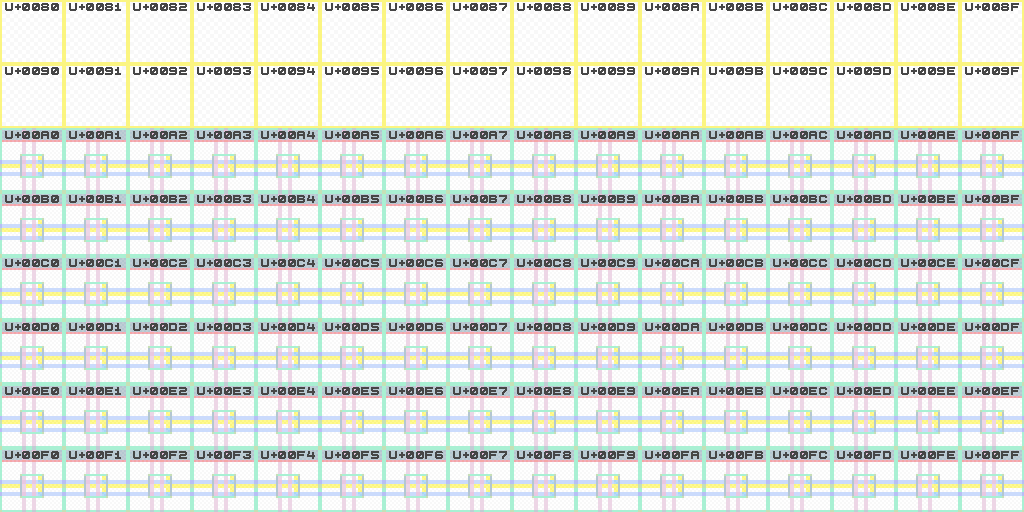
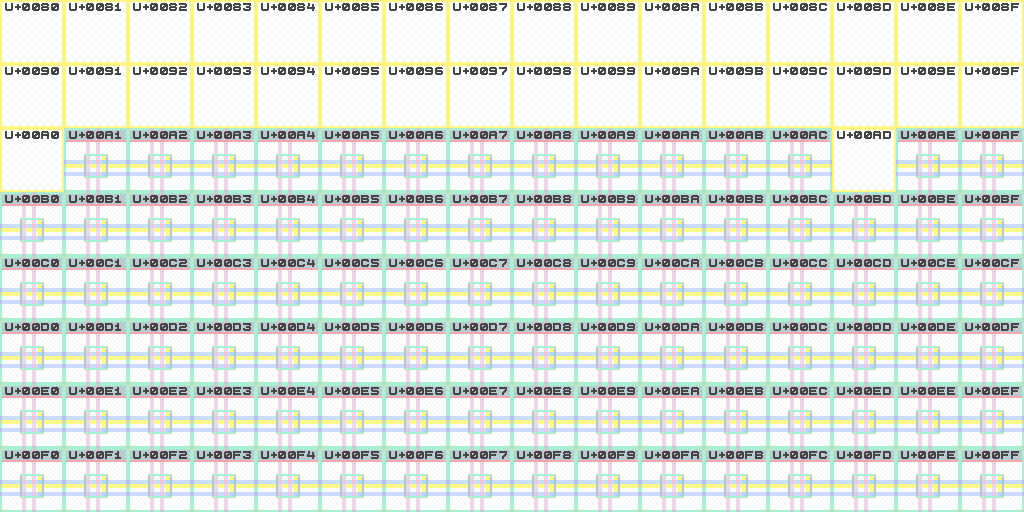
fix: generate_project.py null cell definition
Instead of hard-coded value, updated design's
null cell definition to check for: `lambda char:
char.isprintable() and not char.isspace()`

Changed region(s): [[0.8125, 0.25, 0.875, 0.375], [0.0, 0.25, 0.0625, 0.375]]

diff --git a/scripts/generate_project.py b/scripts/generate_project.py
@@ -60,9 +60,10 @@ def generate(block_name, block):
     start = block["start"]
     end = block["end"]
     count = end - start + 1
+    has_graphic = lambda char: char.isprintable() and not char.isspace()
     fn = lambda i: (
         f"U+{(start + i):04X}",
-        null_cell if ((start + i) < 0x20 or 0x7F <= (start + i) <= 0x9F) else font_cell
+        font_cell if has_graphic(chr(start + i)) else null_cell
     )
     sheet = generate_font_table(fn, count, COLUMN_SIZE, label_font)
 
